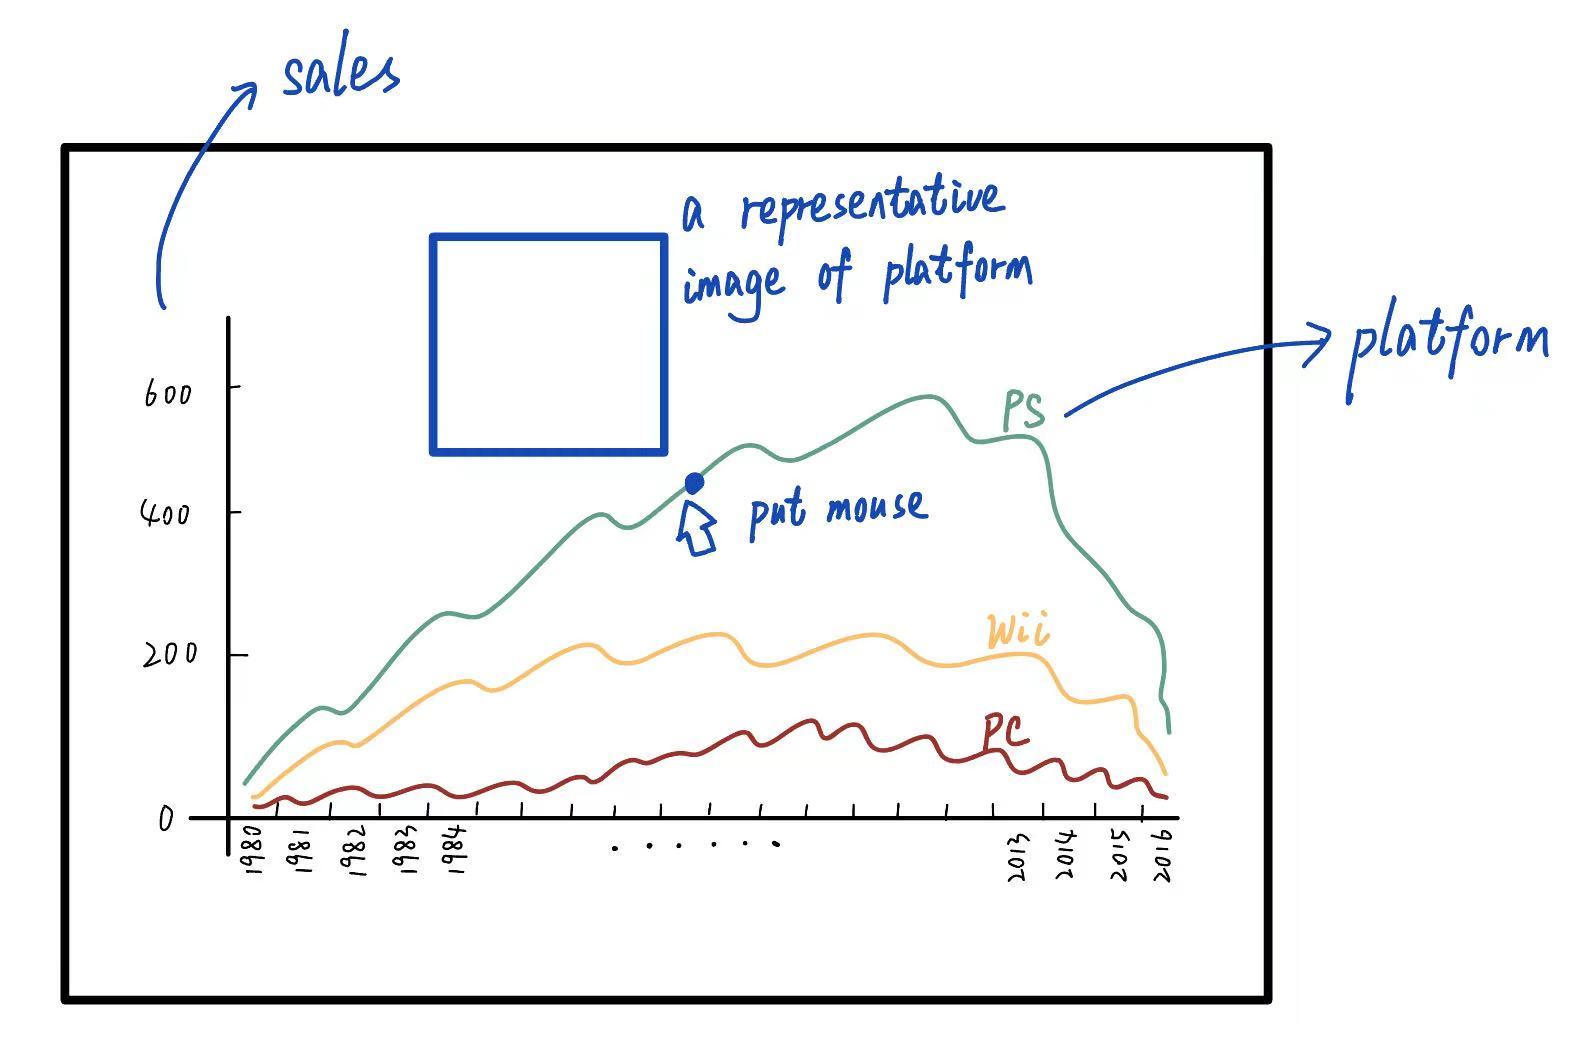
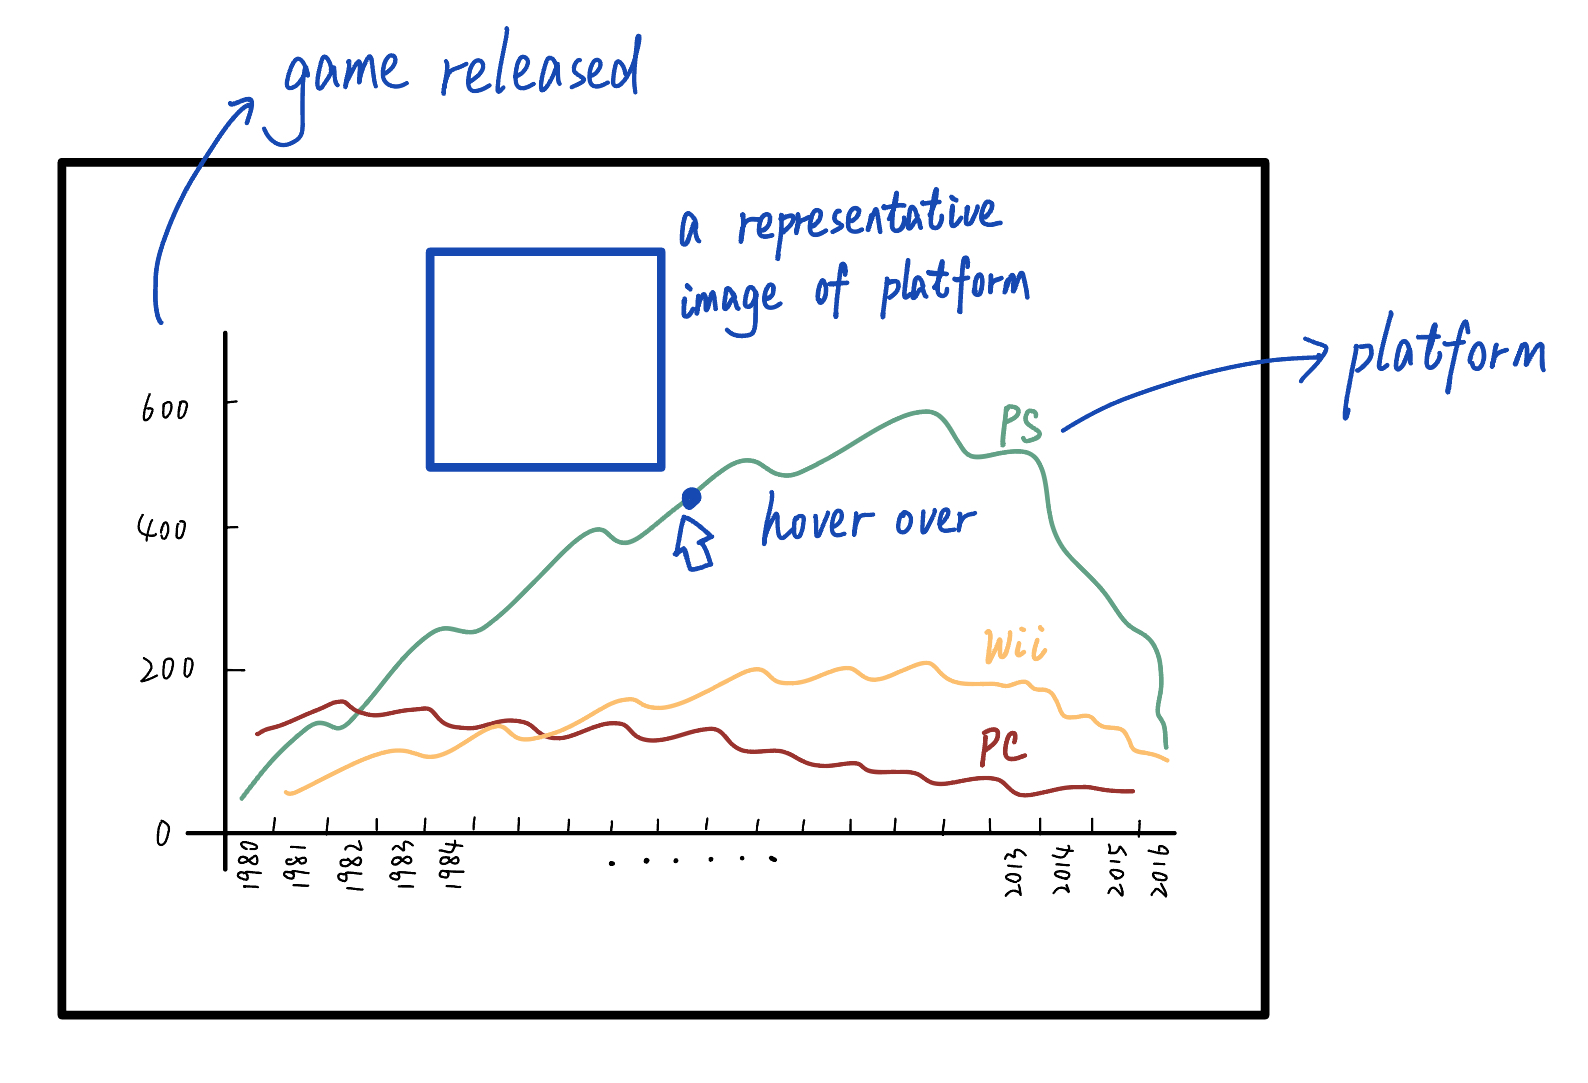
change figure sequance

diff --git a/docs/milestone2.md b/docs/milestone2.md
@@ -7,15 +7,15 @@ We will use **D3.js** from lecture *Interactive D3.js* to create dynamic, intera
 In this section, we will display simple sketches of our visualizations, their purpose and the interactions we hope to achieve.
 
 ### Figure 1
-<!-- 第一张图放世界地图，游戏开发商在地图上的分布 -->
+Over the years, the platforms for playing video games have undergone significant changes, paralleling the broader evolution of the games themselves.
 
-### Figure 2
-<!-- 然后放platform的进化 -->
-Scroll down the page and we'll take a closer look at gaming platforms. 
-
-We'll start by showing the evolution of gaming platforms over the years. The visualization will show the number of games released on each platform over the years. The user can hover over the graph to see the exact number of games released on a particular platform in a particular year. At the same time, a representative picture of the platform will be displayed in the blank space of the page.
+We'll start by showing the evolution of gaming platforms over time. The visualization will show the number of games released on each platform over the years. The user can hover over the graph to see the exact number of games released on a particular platform in a particular year. At the same time, a representative picture of the platform will be displayed in the blank space of the page.
 
 <img src="../images/platform_evolution.jpg" style="width: 80%;">
+
+### Figure 2
+
+
 
 ### Figure 3
 <!-- 然后放platform上最受欢迎的游戏类型 -->
